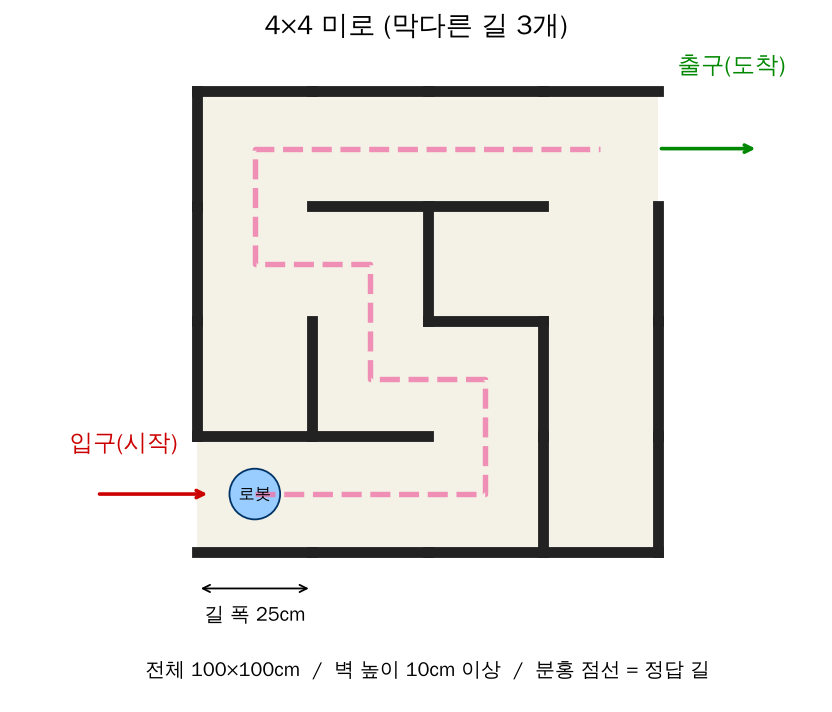
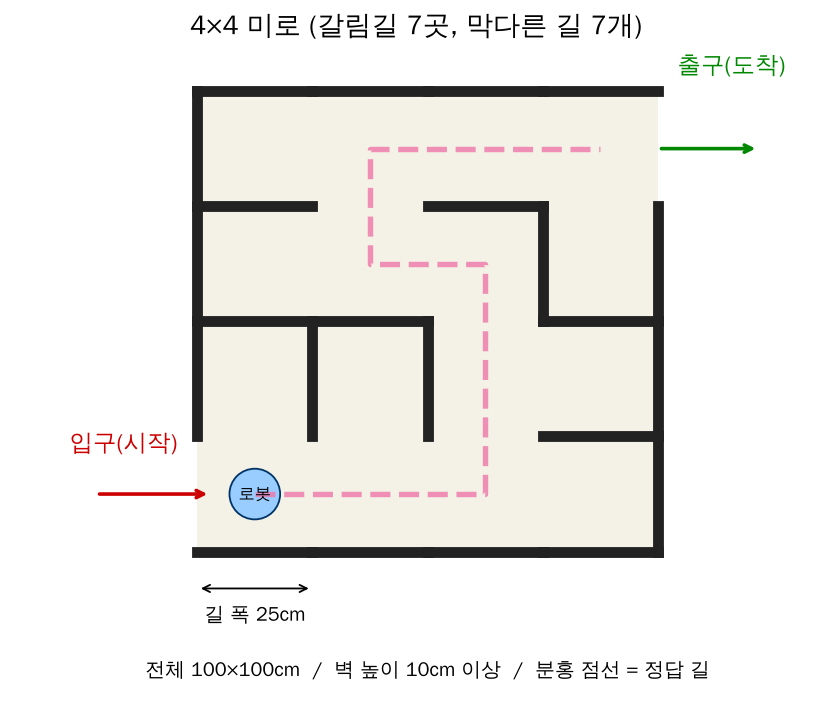
More branching 4x4 maze (7 junctions); keep v1 results; retrain started
Claude-Session: https://claude.ai/code/session_01PeGF935RLEdwvoKcpqibwV

diff --git a/design/maze_real.py b/design/maze_real.py
@@ -3,12 +3,15 @@ matplotlib.use("Agg")
 import matplotlib.pyplot as plt
 plt.rcParams['font.family']='WenQuanYi Zen Hei'
 N=4; C=25
-def gen(seed):
-    r=random.Random(seed); vis={(0,0)}; st=[(0,0)]; op=set()
-    while st:
-        x,y=st[-1]; nb=[(x+dx,y+dy) for dx,dy in((1,0),(-1,0),(0,1),(0,-1)) if 0<=x+dx<N and 0<=y+dy<N and (x+dx,y+dy) not in vis]
-        if not nb: st.pop(); continue
-        n=r.choice(nb); vis.add(n); op.add(frozenset([(x,y),n])); st.append(n)
+def gen(seed):                       # 무작위 신장 트리(크루스칼): DFS보다 갈래가 많이 생김
+    r=random.Random(seed); par={(x,y):(x,y) for x in range(N) for y in range(N)}
+    def f(a):
+        while par[a]!=a: par[a]=par[par[a]]; a=par[a]
+        return a
+    E=[((x,y),(x+1,y)) for x in range(N-1) for y in range(N)]+[((x,y),(x,y+1)) for x in range(N) for y in range(N-1)]
+    r.shuffle(E); op=set()
+    for a,b in E:
+        if f(a)!=f(b): par[f(a)]=f(b); op.add(frozenset([a,b]))
     return op
 def solve(op):
     from collections import deque
@@ -23,14 +26,18 @@ def solve(op):
     while c: s.append(c); c=p[c]
     return s[::-1]
 best=None
-for seed in range(2000):
+for seed in range(20000):
     op=gen(seed); s=solve(op)
     deg={}
     for e in op:
         for c in e: deg[c]=deg.get(c,0)+1
     dead=sum(1 for c in deg if deg[c]==1 and c not in((0,0),(N-1,N-1)))
-    if 9<=len(s)<=11 and 3<=dead<=4 and (best is None or dead>best[4]): best=(len(s),seed,op,s,dead)
-L,seed,op,sol,dead=best
+    junc=sum(1 for c in deg if deg[c]+(1 if c in((0,0),(N-1,N-1)) else 0)>=3)
+    if 8<=len(s)<=11 and (best is None or (junc,dead)>best[5]): best=(len(s),seed,op,s,dead,(junc,dead))
+L,seed,op,sol,dead,jd=best
+import json
+json.dump([[list(a) for a in sorted(e)] for e in op],open('experiments/maze_real_edges.json','w'))
+print('갈림칸',jd[0])
 print('seed',seed,'해답칸',L,'막다른길',dead)
 fig,ax=plt.subplots(figsize=(8,8.4))
 ax.add_patch(plt.Rectangle((0,0),N*C,N*C,fc='#f4f1e6',ec='none'))
@@ -56,6 +63,6 @@ ax.text(116,104,'출구(도착)',ha='center',color='#080',fontsize=13)
 ax.annotate('',xy=(0,-8),xytext=(25,-8),arrowprops=dict(arrowstyle='<->')); ax.text(12.5,-15,'길 폭 25cm',ha='center',fontsize=11)
 ax.text(50,-27,f'전체 100×100cm  /  벽 높이 10cm 이상  /  분홍 점선 = 정답 길',ha='center',fontsize=11)
 ax.set_xlim(-40,135); ax.set_ylim(-32,110); ax.set_aspect('equal'); ax.axis('off')
-ax.set_title('4×4 미로 (막다른 길 %d개)'%dead,fontsize=15)
+ax.set_title('4×4 미로 (갈림길 %d곳, 막다른 길 %d개)'%(jd[0],dead),fontsize=15)
 print('벽 총길이 cm',wl*C,'개수',wl)
 fig.savefig('maze_real.png',dpi=130,bbox_inches='tight')
